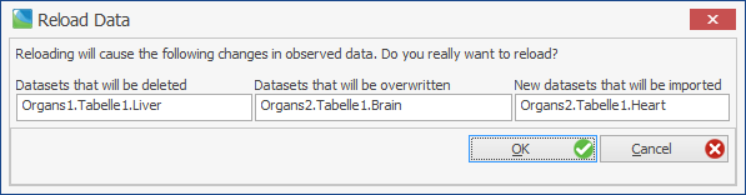
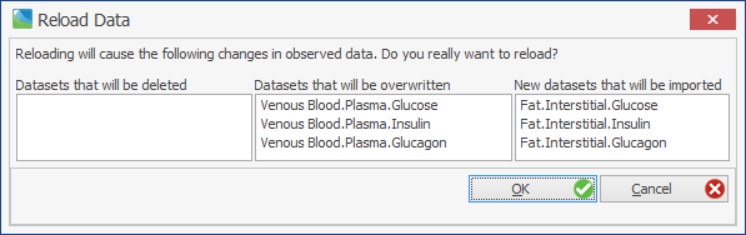
Observed data import

Changed region(s): [[0.0, 0.3385, 0.9866, 0.8923], [0.0, 0.0, 1.0, 0.3077], [0.0, 0.9231, 1.0, 1.0]]

diff --git a/part-5/import-edit-observed-data.md b/part-5/import-edit-observed-data.md
@@ -254,7 +254,7 @@ The mapping can be reset by right-clicking on the mapping panel and selecting on
 
 ![Observed data mapping context menu](C:/SW-Dev/OSPDocuV10/assets/images/part-5/ObsData_MApping_ContextMenu.PNG)
 
-### Selection of units
+#### Selection of units
 
 The units for the mapped columns can either be manually entered or specified by a column. In the latter case, each data point can have a distinct unit but from the same dimension. In the unit dialog, the mode of unit definition can be selected. If the unit is specified as part of the header name (e.g. *Time[h]*) it is automatically recognized by the importer. The user can edit the unit by opening the dialog in the column "**Edit extra fields**" of the corresponding mapping.
 
@@ -266,12 +266,12 @@ The units for the mapped columns can either be manually entered or specified by 
 When setting the unit manually, the user needs to select the dimension first, upon which the unit drop-down menu will be filled corresponding units.
 
 
-### LLOQ
+#### LLOQ
 
 The LLOQ can either be specified from the column of the measurement or from a separate column. In the first case, the LLOQ values in the measurement column must be preceded by a "<", e.g. "<0.2", where 0.2 is the LLOQ value. In the second case, there can only be one single LLOQ value for every data set. In case there are several LLOQ values defined, the user is warned, and in case the user wants to proceed with the import, the highest of these LLOQs will be assumed for the whole data set. 
 
 
-### Configuring the error
+#### Configuring the error
 
 The error can be set to '**Arithmetic Standard Deviation**' or '**Geometric Deviation**'. Since the geometric deviation is dimensionless, it is not possible to specify a unit for it. Otherwise, the user can specify the unit either manually or by a column.
 The dimension of the measurement and the error unit, as well as their source (manually entered or specified by a column), have to be consistent. This is checked when loading the sheet, and data with inconsistent dimensions cannot be imported.
@@ -281,6 +281,36 @@ When the unit is configured as manual input, the user must first select the "Dim
 
 ![Selecting Error Type](../assets/images/part-5/ImporterSelectingErrorType.png)
 
+#### Molecular weight
+
+Concentration data can be imported either in molar units (e.g. [µmol/l]) or in mass units (e.g. [mg/ml]). In order to switch between molar and mass units (e.g. to display the data which was imported in [µmol/l] in [mg/ml]) it is required to specify the **Molecular weight** of a data set.
+
+This can be done either by mapping of the data set to a molecule or by mapping of the molecular weight to a data column.
+
+* If neither **Molecule** nor the **Molecular Weight** are mapped: the molecular weight of all data sets is not set.
+
+* If only the **Molecule** (but not the **Molecular Weight**) is mapped to a data source column or is set to specific value: the software (PK-Sim® /MoBi®) will check for each data set if the **molecule with the name assigned to the data set is available in the project**:
+
+  * If yes: observed data set will be automatically assigned the molecular weight of this compound.
+  * If no: molecular weight of the given data set is undefined. However, if a new molecule with the name assigned to the data set is added to the project later on: observed data set will automatically become the molecular weight of this molecule.  
+![](../assets/images/part-5/Import_MW_Molecule.PNG)
+
+{% hint style="tip" %}
+If molecular weight of the molecule is changed by user: molecular weight of all data sets linked to this molecule via the "Molecule" meta data will be automatically adjusted to the new value. 
+{% endhint %}
+
+{% hint style="tip" %}
+If the "Molecule" meta data was not mapped during the import process - it can be done later by editing the meta data of an observed data set.
+{% endhint %}
+
+* If only the **Molecular Weight** (but not the **Molecule**) is mapped to a data source column: the value of the molecular weight is taken from the mapped data source column.
+  * In such a case: mapped data column must contain the **same** molecular weight value for all rows of a data set - otherwise the import is not possible
+![](../assets/images/part-5/Import_MW_MW.PNG)
+
+* If the **Molecule** is mapped to a data source column or is set to specific value and  the **Molecular Weight** is mapped as well:
+  * For each data set for which the **molecule name is not available in the project**: molecular weight will be taken from the imported data column as described above
+  * For each data set which the **molecule name is available in the project**: molecular weight from the data column will be compared with the molecular weight of the molecule in the project. If they differ - import is not possible. Otherwise, the data set will automatically become the molecular weight of "its" molecule as described above.
+![](../assets/images/part-5/Import_MW_MW_Molecule.PNG)
 
 ### The NaN indicator
 
@@ -340,6 +370,15 @@ Using the context menu of the **Observed Data** folders, the metadata values can
 
 ## Update Observed data
 
-Using the context menu on a single data set, the user can update all the data coming from that file. Upon selecting this option, the user is prompted to select the file from where the data will be re-imported (This can also be the same file used for the original import, just with edited data.) A window appears, showing the changes this re-import will make to the observed data: which data sets will be deleted, which will be overwritten and which will be newly imported. The user can then decide to proceed with the reload or abort it.
+Using the context menu on a single data set, the user can update **all data sets which were imported together with the selected one**. 
+
+![Import_UpdateDataSets](../assets/images/part-5/Import_UpdateDataSets.PNG)
+
+Upon selecting this option, the user is prompted to select the file from where the data will be re-imported (This can also be the same file used for the original import, just with edited data.) A window appears, showing the changes this re-import would make to the observed data: which data sets will be deleted, which will be overwritten and which will be newly imported. The user can then decide to proceed with the reload or abort it.
 
 ![Reload summary](../assets/images/part-5/ImporterReloadSummary.png)
+
+{% hint style="note" %}
+Reloading previously imported data will always update **all** data sets which belong to the same import process. This also means that data sets which are not available in the new data source anymore will be automatically deleted from the project. If this is not possible (for example because a data set is used in a parameter identification or in a simulation) - the update is not possible and the user is prompted to remove such a data set from all simulations/parameter identifications/... **manually**. 
+After that, the update process can be started again.
+{% endhint %}
